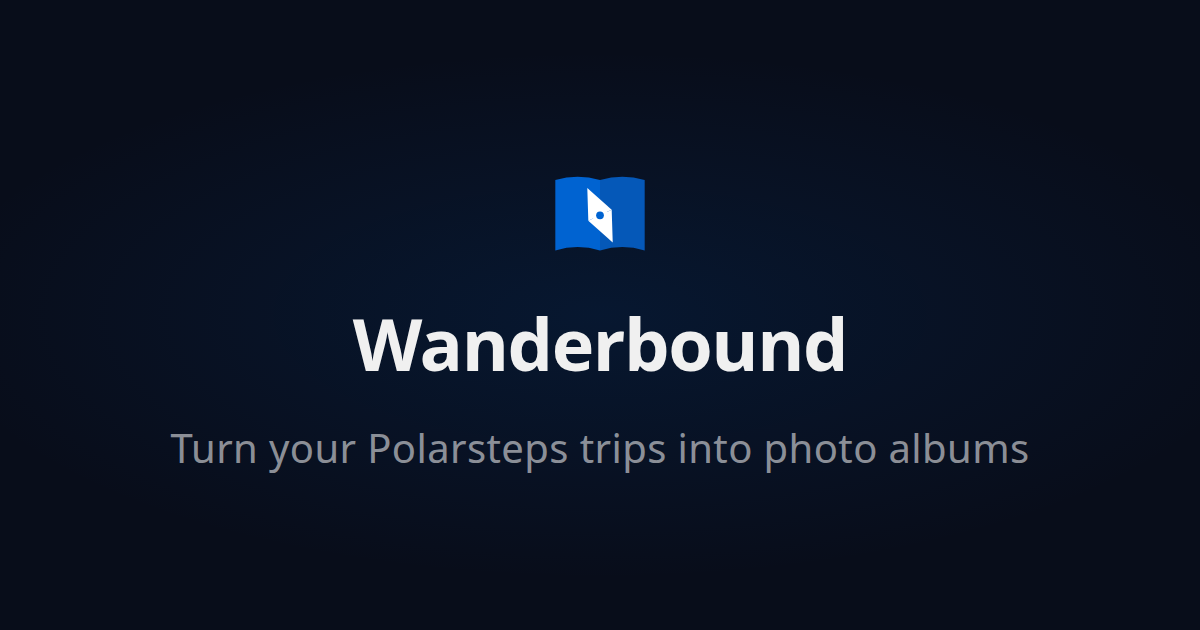
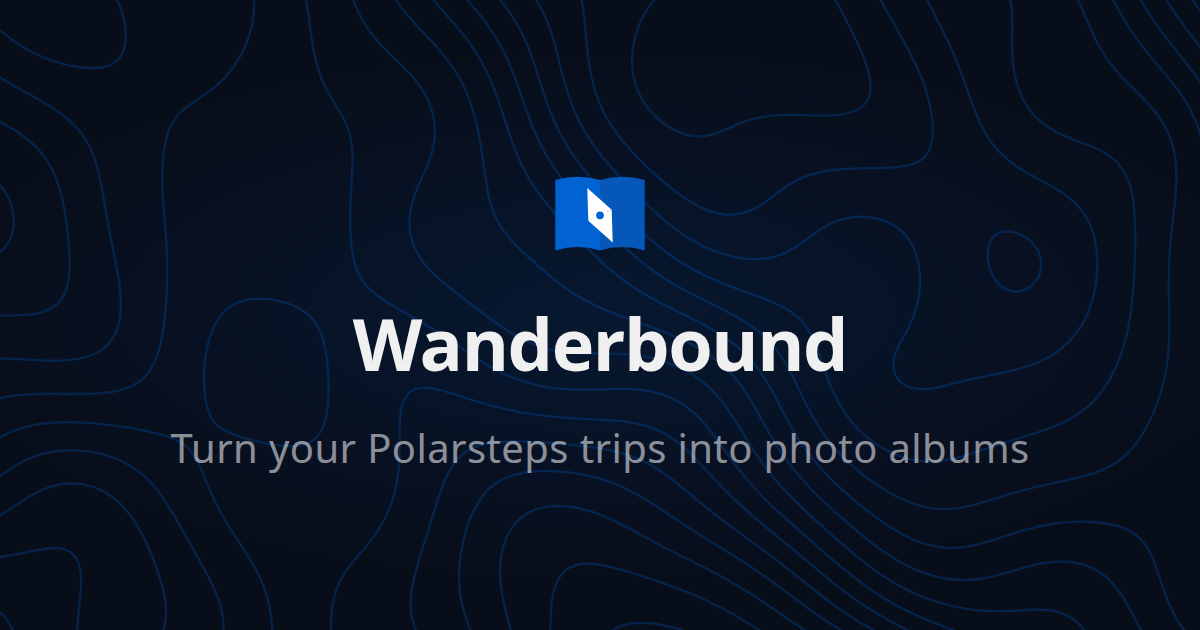
feat: add topo contour background to OG image

diff --git a/scripts/generate-og-image.ts b/scripts/generate-og-image.ts
@@ -13,6 +13,7 @@ import { fileURLToPath } from "url";
 const __dirname = path.dirname(fileURLToPath(import.meta.url));
 const PUBLIC = path.resolve(__dirname, "../frontend/public");
 const LOGO_SVG = readFileSync(path.join(PUBLIC, "logo.svg"), "utf-8");
+const TOPO_SVG = readFileSync(path.join(PUBLIC, "topo-contours.svg"), "utf-8");
 const FONT_DIR = path.join(PUBLIC, "fonts");
 const OUTPUT = path.join(PUBLIC, "og-image.png");
 
@@ -46,9 +47,33 @@ body {
   overflow: hidden;
 }
 
+.topo {
+  position: absolute;
+  inset: 0;
+  width: 100%;
+  height: 100%;
+  opacity: 0.25;
+  z-index: 0;
+}
+
+.topo svg {
+  width: 220%;
+  height: 220%;
+  position: absolute;
+  top: 50%;
+  left: 50%;
+  transform: translate(-50%, -50%);
+}
+
+.topo svg path {
+  stroke-width: 1.5px;
+}
+
 .logo {
   width: 110px;
   height: 110px;
+  position: relative;
+  z-index: 1;
 }
 
 .logo svg {
@@ -57,6 +82,8 @@ body {
 }
 
 .title {
+  position: relative;
+  z-index: 1;
   color: #f0f0f0;
   font-size: 72px;
   font-weight: 800;
@@ -64,6 +91,8 @@ body {
 }
 
 .tagline {
+  position: relative;
+  z-index: 1;
   color: rgba(255, 255, 255, 0.55);
   font-size: 40px;
   font-weight: 400;
@@ -72,6 +101,7 @@ body {
 </style>
 </head>
 <body>
+  <div class="topo">${TOPO_SVG}</div>
   <div class="logo">${LOGO_SVG}</div>
   <div class="title">Wanderbound</div>
   <div class="tagline">Turn your Polarsteps trips into photo albums</div>
